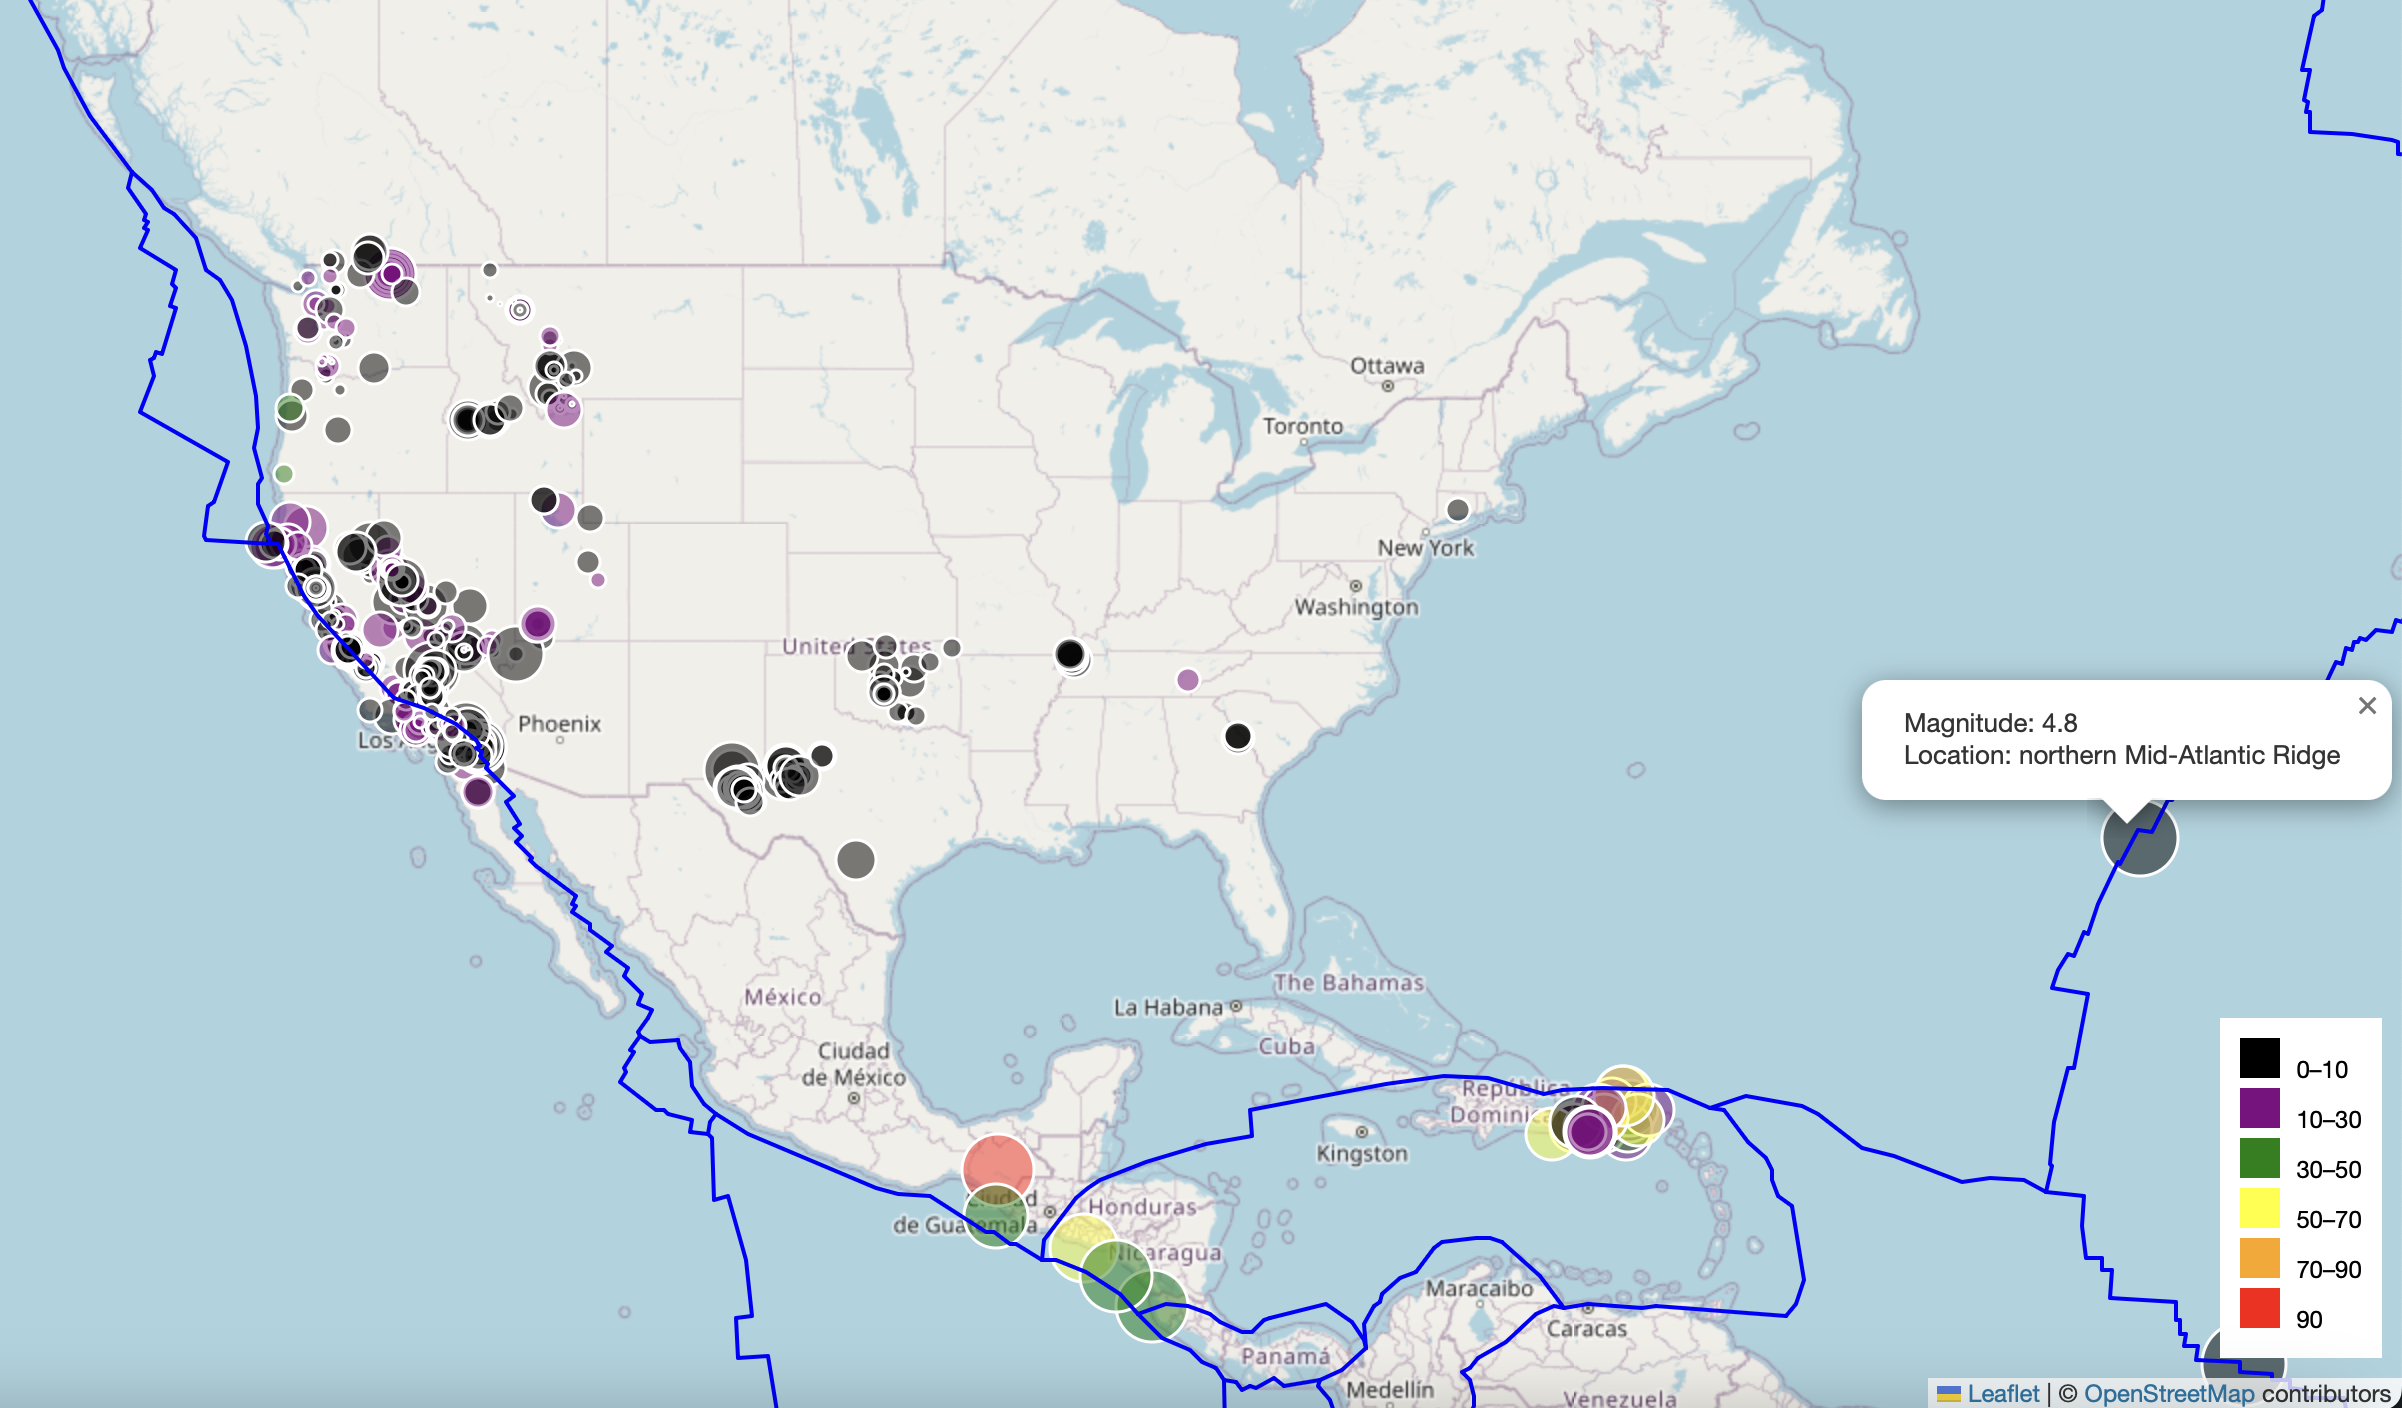
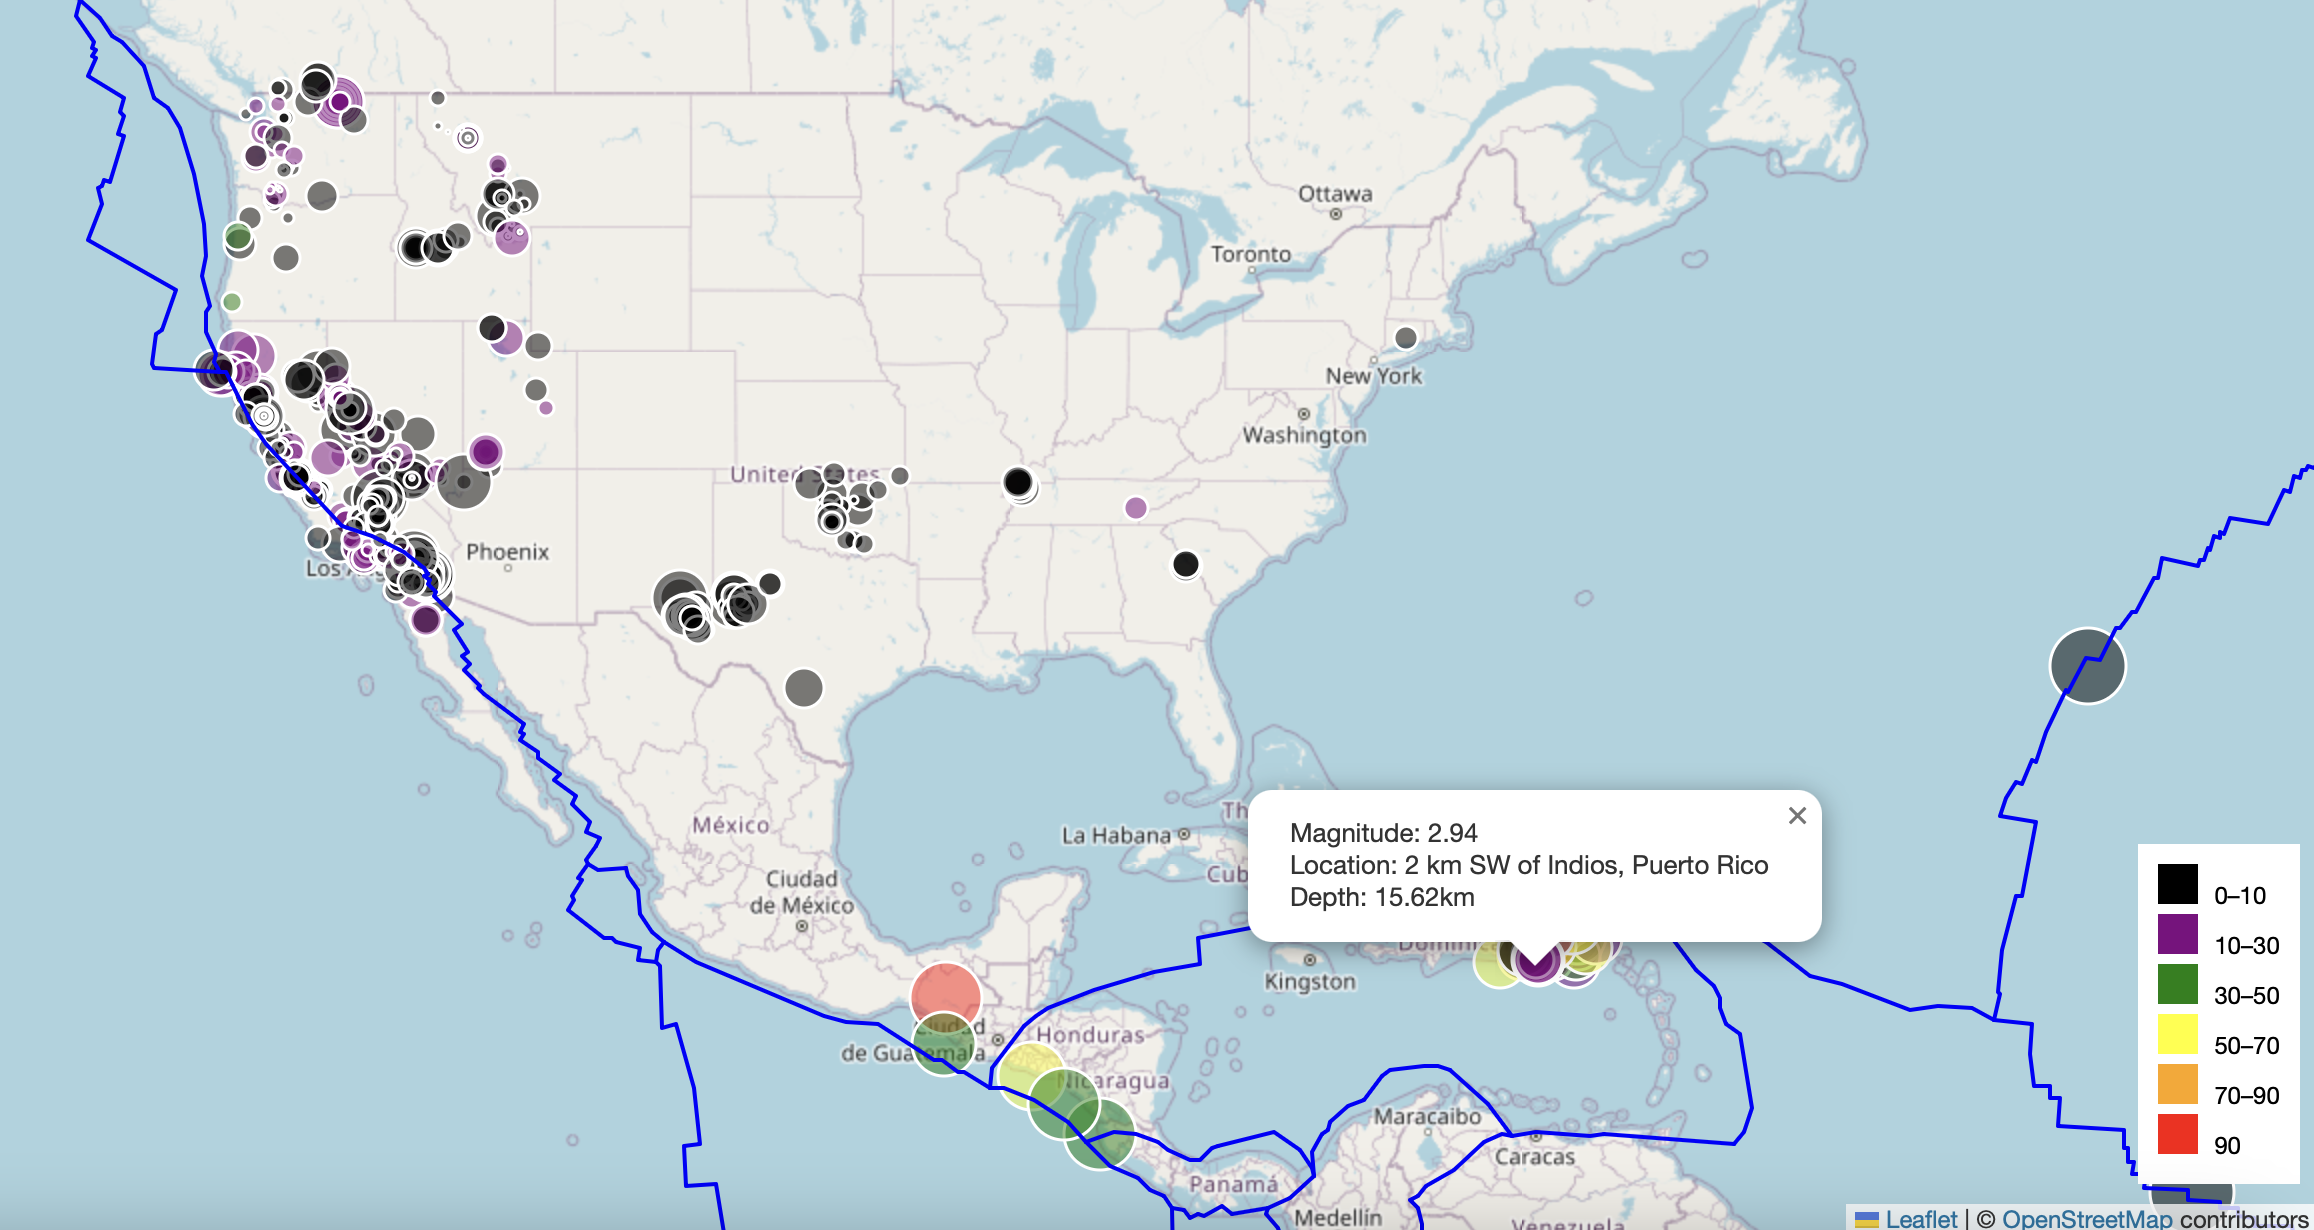
editing in the final code

diff --git a/Leaflet-Part-1 and Part-2/static/js/logic.js b/Leaflet-Part-1 and Part-2/static/js/logic.js
@@ -72,7 +72,8 @@ d3.json("https://earthquake.usgs.gov/earthquakes/feed/v1.0/summary/all_week.geoj
     style: styleInfo,
     // Create a popup for each marker to display the magnitude and location of the earthquake after the marker has been created and styled
     onEachFeature: function (feature, layer) {
-      layer.bindPopup("Magnitude: " + feature.properties.mag + "<br>Location: " + feature.properties.place);
+      const depth = feature.geometry.coordinates[2];
+      layer.bindPopup("Magnitude: " + feature.properties.mag + "<br>Location: " + feature.properties.place + "<br>Depth: " + depth + "km");
     }
   // OPTIONAL: Step 2
   // Add the data to the earthquake layer instead of directly to the map.
